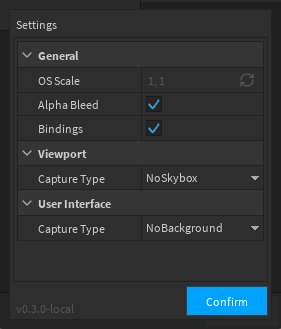
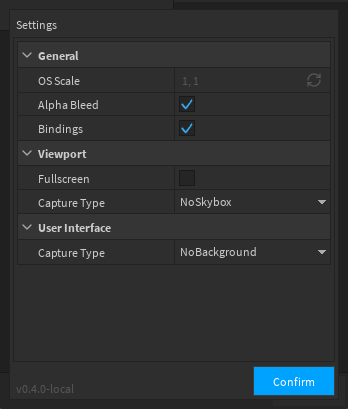
Update README.md

diff --git a/README.md b/README.md
@@ -88,11 +88,9 @@ Photobooth will attempt to resolve this issue automatically, but for the highest
 
 ## Full Viewport Captures
 
-Normally editable images have a 1024x1024 limit. However, it is possible to circumvent this by capturing the entire viewport window. You can toggle to full viewport capture mode by using the the "Photobooth Viewport Fullscreen" action.
+Normally editable images have a 1024x1024 limit. However, it is possible to circumvent this by capturing the entire viewport window. You can toggle to full viewport capture mode in the settings menu.
 
-<img src="docs/assets/readme/general/actions.png" width=50%>
-
-Using this action while the Photobooth viewport is open will switch to a fullscreen capture mode. To set an arbitary size you can either resize your viewport (not recommended) or take advantage of custom device resolutions on the emulator.
+To set an arbitrary size you can either resize your viewport (not recommended) or take advantage of custom device resolutions on the emulator.
 
 ![](docs/assets/readme/general/emulator.jpg)
 
